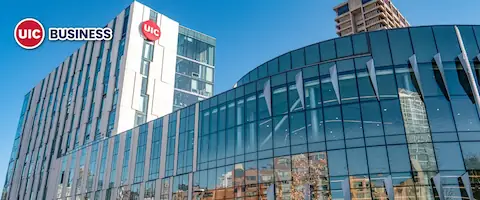
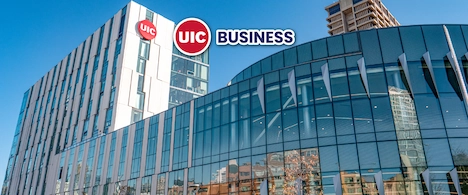
調整圖片及footer格式

diff --git a/src/pages/Msu/Msu_school/AboutMsu.css b/src/pages/Msu/Msu_school/AboutMsu.css
@@ -1,1 +1,1 @@
-.responsive-img{width:100%;-o-object-fit:contain;object-fit:contain;display:block}.about-msu-page h1{font-size:2.5rem;margin-bottom:1rem}.about-msu-page h2{font-size:1.8rem}.about-msu-page .intro{padding:2rem 0;text-align:left;margin-bottom:3rem}.about-msu-page .intro p{font-size:24px;font-weight:700;line-height:40px;color:#252322;letter-spacing:.05em;margin:3rem auto;max-width:100%}.about-msu-page .stats{padding:2rem 0}.about-msu-page .stats .stats-card-school{background:#fff;border:2px solid #a88145;border-radius:20px;padding:3rem;margin-bottom:2rem;position:relative;margin-bottom:6rem}.about-msu-page .stats .stats-card-school h3{font-size:1.8rem;font-weight:900;margin-bottom:1.5rem;color:#211700;text-align:left}.about-msu-page .stats .stats-card-school ul.left-aligned{text-align:left;list-style:none;padding:0;display:grid;grid-template-columns:repeat(3, 1fr);gap:2rem}.about-msu-page .stats .stats-card-school ul.left-aligned li{display:flex;flex-direction:column;align-items:flex-start;margin-bottom:10px}.about-msu-page .stats .stats-card-school ul.left-aligned li .label{font-size:20px;font-weight:400;line-height:26px;color:#000;margin-bottom:.5rem}.about-msu-page .stats .stats-card-school ul.left-aligned li .value{font-size:24px;font-weight:700;line-height:40px;color:#f5bf00}.about-msu-page .stats .stats-card-school ul.left-aligned li .sub-list{font-size:24px;font-weight:700;line-height:40px;font-size:18px;font-weight:400;color:#f5bf00;list-style:disc;margin-top:0;padding-left:20px}.about-msu-page .stats .stats-card-school ul.left-aligned li .sub-list li{margin:0;display:list-item;padding-left:5px}@media screen and (max-width: 700px){.about-msu-page .about-msu-page .stats .stats-card-school ul.left-aligned{grid-template-columns:repeat(2, 1fr)}}.about-msu-page .details{padding:2rem 0}.about-msu-page .details .reasearch{background:#fff;padding:1.5rem;margin-bottom:2rem}.about-msu-page .details .reasearch h3{font-size:1.8rem;font-weight:900;margin-bottom:1.5rem;color:#f5bf00;margin-bottom:1.5rem}.about-msu-page .details .reasearch .research-content{display:flex;flex-direction:column;align-items:flex-start;margin-left:16rem}.about-msu-page .details .reasearch .research-content h4{font-size:20px;font-weight:400;line-height:26px;color:#211700;font-weight:700;margin-bottom:.5rem;text-align:left}.about-msu-page .details .reasearch .research-content .research-funding,.about-msu-page .details .reasearch .research-content .research-facilities,.about-msu-page .details .reasearch .research-content .research-areas,.about-msu-page .details .reasearch .research-content .research-centers{margin-bottom:1.5rem}.about-msu-page .details .reasearch .research-content .funding-amount{font-size:1.8rem;font-weight:900;margin-bottom:1.5rem;color:#7c5f31;font-weight:bold}.about-msu-page .details .reasearch .research-content .funding-year{font-size:16px;font-weight:normal}.about-msu-page .details .reasearch .research-content .facility p{color:#7c5f31;font-weight:700;font-size:20px;margin:1rem 0;max-width:100%}.about-msu-page .details .reasearch .research-content .areas-list{display:flex;flex-direction:row;flex-wrap:wrap;margin-left:1.5rem}.about-msu-page .details .reasearch .research-content .areas-list li{color:#7c5f31;font-weight:700;font-size:24px;position:relative;margin-right:3rem;white-space:nowrap;margin-bottom:1rem}.about-msu-page .details .reasearch .research-content .research-centers p{color:#7c5f31;font-weight:700;font-size:20px;margin:0;max-width:100%}.about-msu-page .michigan-contribution h3,.about-msu-page .global-impact h3{font-size:1.8rem;font-weight:900;margin-bottom:1.5rem;color:#f5bf00;margin-bottom:3rem}.about-msu-page .michigan-contribution p,.about-msu-page .global-impact p{margin:0 auto;margin-left:18rem}.about-msu-page .global-impact h3{margin-top:5rem}.about-msu-page .global-impact .impact-list{padding-left:2rem;text-align:left;color:#7c5f31;font-weight:700;margin-left:17.5rem}.about-msu-page .global-impact .impact-list li{margin-bottom:1rem}.about-msu-page .diversity-list{padding-left:2rem;text-align:left;color:#211700;font-weight:700;margin-left:17.5rem;font-size:14px;margin-top:0}.about-msu-page .diversity-list li{margin-bottom:1rem}@media screen and (max-width: 1024px){.about-msu-page .michigan-contribution p,.about-msu-page .global-impact p{margin-left:8rem}.about-msu-page .details .reasearch .research-content{margin-left:8rem}.about-msu-page .global-impact .impact-list{margin-left:10rem}.about-msu-page .diversity-list{margin-left:10rem}}@media screen and (max-width: 700px){.about-msu-page .details .reasearch .research-content{margin-left:1rem}.about-msu-page .michigan-contribution .contribution-content p{margin-left:2rem}.about-msu-page .global-impact .global-impact-content p{margin-left:2rem}.about-msu-page .global-impact .global-impact-content ul{margin-left:2rem}}@media screen and (max-width: 500px){.about-msu-page .stats .stats-card-school ul.left-aligned li .sub-list{padding-left:0}.about-msu-page .global-impact .impact-list{padding-left:1rem}}/*# sourceMappingURL=AboutMsu.css.map */
+.responsive-img{width:100%;-o-object-fit:contain;object-fit:contain;display:block}.about-msu-page h1{font-size:2.5rem;margin-bottom:1rem}.about-msu-page h2{font-size:1.8rem}.about-msu-page .intro{padding:2rem 2rem;text-align:left;margin-bottom:3rem}.about-msu-page .intro p{font-size:24px;font-weight:700;line-height:40px;color:#252322;letter-spacing:.05em;margin:3rem auto;max-width:100%}.about-msu-page .stats{padding:2rem 0}.about-msu-page .stats .stats-card-school{background:#fff;border:2px solid #a88145;border-radius:20px;padding:3rem;margin-bottom:2rem;position:relative;margin-bottom:6rem}.about-msu-page .stats .stats-card-school h3{font-size:1.8rem;font-weight:900;margin-bottom:1.5rem;color:#211700;text-align:left}.about-msu-page .stats .stats-card-school ul.left-aligned{text-align:left;list-style:none;padding:0;display:grid;grid-template-columns:repeat(3, 1fr);gap:2rem}.about-msu-page .stats .stats-card-school ul.left-aligned li{display:flex;flex-direction:column;align-items:flex-start;margin-bottom:10px}.about-msu-page .stats .stats-card-school ul.left-aligned li .label{font-size:20px;font-weight:400;line-height:26px;color:#000;margin-bottom:.5rem}.about-msu-page .stats .stats-card-school ul.left-aligned li .value{font-size:24px;font-weight:700;line-height:40px;color:#f5bf00}.about-msu-page .stats .stats-card-school ul.left-aligned li .sub-list{font-size:24px;font-weight:700;line-height:40px;font-size:18px;font-weight:400;color:#f5bf00;list-style:disc;margin-top:0;padding-left:20px}.about-msu-page .stats .stats-card-school ul.left-aligned li .sub-list li{margin:0;display:list-item;padding-left:5px}@media screen and (max-width: 700px){.about-msu-page .about-msu-page .stats .stats-card-school ul.left-aligned{grid-template-columns:repeat(2, 1fr)}}.about-msu-page .details{padding:2rem 0}.about-msu-page .details .reasearch{background:#fff;padding:1.5rem;margin-bottom:2rem}.about-msu-page .details .reasearch h3{font-size:1.8rem;font-weight:900;margin-bottom:1.5rem;color:#f5bf00;margin-bottom:1.5rem}.about-msu-page .details .reasearch .research-content{display:flex;flex-direction:column;align-items:flex-start;margin-left:16rem}.about-msu-page .details .reasearch .research-content h4{font-size:20px;font-weight:400;line-height:26px;color:#211700;font-weight:700;margin-bottom:.5rem;text-align:left}.about-msu-page .details .reasearch .research-content .research-funding,.about-msu-page .details .reasearch .research-content .research-facilities,.about-msu-page .details .reasearch .research-content .research-areas,.about-msu-page .details .reasearch .research-content .research-centers{margin-bottom:1.5rem}.about-msu-page .details .reasearch .research-content .funding-amount{font-size:1.8rem;font-weight:900;margin-bottom:1.5rem;color:#7c5f31;font-weight:bold}.about-msu-page .details .reasearch .research-content .funding-year{font-size:16px;font-weight:normal}.about-msu-page .details .reasearch .research-content .facility p{color:#7c5f31;font-weight:700;font-size:20px;margin:1rem 0;max-width:100%}.about-msu-page .details .reasearch .research-content .areas-list{display:flex;flex-direction:row;flex-wrap:wrap;margin-left:1.5rem}.about-msu-page .details .reasearch .research-content .areas-list li{color:#7c5f31;font-weight:700;font-size:24px;position:relative;margin-right:3rem;white-space:nowrap;margin-bottom:1rem}.about-msu-page .details .reasearch .research-content .research-centers p{color:#7c5f31;font-weight:700;font-size:20px;margin:0;max-width:100%}.about-msu-page .michigan-contribution h3,.about-msu-page .global-impact h3{font-size:1.8rem;font-weight:900;margin-bottom:1.5rem;color:#f5bf00;margin-bottom:3rem}.about-msu-page .michigan-contribution p,.about-msu-page .global-impact p{margin:0 auto;margin-left:18rem}.about-msu-page .global-impact h3{margin-top:5rem}.about-msu-page .global-impact .impact-list{padding-left:2rem;text-align:left;color:#7c5f31;font-weight:700;margin-left:17.5rem}.about-msu-page .global-impact .impact-list li{margin-bottom:1rem}.about-msu-page .diversity-list{padding-left:2rem;text-align:left;color:#211700;font-weight:700;margin-left:17.5rem;font-size:14px;margin-top:0}.about-msu-page .diversity-list li{margin-bottom:1rem}@media screen and (max-width: 1024px){.about-msu-page .michigan-contribution p,.about-msu-page .global-impact p{margin-left:8rem}.about-msu-page .details .reasearch .research-content{margin-left:8rem}.about-msu-page .global-impact .impact-list{margin-left:10rem}.about-msu-page .diversity-list{margin-left:10rem}}@media screen and (max-width: 700px){.about-msu-page .details .reasearch .research-content{margin-left:1rem}.about-msu-page .michigan-contribution .contribution-content p{margin-left:2rem}.about-msu-page .global-impact .global-impact-content p{margin-left:2rem}.about-msu-page .global-impact .global-impact-content ul{margin-left:2rem}}@media screen and (max-width: 500px){.about-msu-page .stats .stats-card-school ul.left-aligned li .sub-list{padding-left:0}.about-msu-page .global-impact .impact-list{padding-left:1rem}}/*# sourceMappingURL=AboutMsu.css.map */

diff --git a/src/components/Footer/Footer.css b/src/components/Footer/Footer.css
@@ -1,1 +1,1 @@
-.responsive-img{width:100%;-o-object-fit:contain;object-fit:contain;display:block}.footer{background:#7c5f31;padding:40px 0}.footer .container{width:100%;max-width:1440px;padding:0;margin:0 0 0 8rem}.footer .footer-content{display:flex;justify-content:space-between;align-items:flex-start;margin-bottom:3rem}.footer .footer-content .footer-section{flex:1}.footer .footer-content .footer-section.footer-links-uic,.footer .footer-content .footer-section.footer-links-msu{display:flex;flex-direction:column;text-align:left}.footer .footer-content .footer-section.footer-links-uic .section-title,.footer .footer-content .footer-section.footer-links-msu .section-title{margin-bottom:1rem;color:#fff;font-size:18px;font-weight:bold;width:180px;height:24px;display:flex;align-items:center;margin-left:0;margin-right:0;text-align:left}.footer .footer-content .footer-section.footer-links-uic ul,.footer .footer-content .footer-section.footer-links-msu ul{list-style:none;padding:0;margin:0}.footer .footer-content .footer-section.footer-links-uic ul li,.footer .footer-content .footer-section.footer-links-msu ul li{height:24px;display:flex;align-items:center;margin-bottom:8px}.footer .footer-content .footer-section.footer-links-uic ul li a,.footer .footer-content .footer-section.footer-links-msu ul li a{color:#fff;font-size:16px;text-decoration:none}.footer .footer-content .footer-section.footer-links-uic ul li a:hover,.footer .footer-content .footer-section.footer-links-msu ul li a:hover{text-decoration:none}.footer .footer-content .footer-section.about{display:flex;flex-direction:column;align-items:flex-start;margin-right:-9rem}.footer .footer-content .footer-section.about .contact{margin-bottom:20px}.footer .footer-content .footer-section.about .contact .contact-title{margin-bottom:10px;color:#fff;font-size:18px;font-weight:bold;text-align:left;margin-right:0;margin-left:0}.footer .footer-content .footer-section.about .contact .contact-address,.footer .footer-content .footer-section.about .contact .contact-phone{width:100%;max-width:180px;margin-bottom:5px;color:#fff;font-size:16px;font-style:normal;text-align:left;margin-left:0;margin-right:0}.footer .footer-content .footer-section.about .contact .contact-address{white-space:nowrap}.footer .footer-content .footer-section.about .social-icons{display:flex;gap:15px;align-self:flex-start;margin-top:-1.5rem}.footer .footer-content .footer-section.about .social-icons a img{width:24px;height:24px;-o-object-fit:contain;object-fit:contain}.footer .footer-content .footer-section.brand{display:flex;justify-content:flex-start;align-items:center;margin-left:8rem}.footer .footer-content .footer-section.brand .footer-brand img{max-width:120px;height:auto}.footer .footer-content .footer-section.articles{display:flex;justify-content:flex-start;align-items:center;margin-top:-2px;margin-right:0}.footer .footer-content .footer-section.articles a{color:#fff;font-size:18px;font-weight:bold;text-decoration:none;display:inline-block}.footer .footer-content .footer-section.articles a:hover{text-decoration:none}.footer .footer-bottom{text-align:center;margin-left:25rem;margin-top:5rem}.footer .footer-bottom p{margin:0;color:#fff;font-size:18px}@media screen and (max-width: 1024px){.footer .container{margin-left:0;padding:0 2rem}.footer .footer-content .footer-section.brand{margin-left:0;max-width:150px}.footer .footer-bottom{margin-left:13rem;margin-top:5rem}.footer .footer-content .footer-section.footer-links-uic,.footer .footer-content .footer-section.footer-links-msu,.footer .footer-content .footer-section.articles{max-width:200px}}@media(max-width: 700px){.footer{padding:20px 0}.footer .container{margin:0 auto;padding:0 15px}.footer .footer-content{flex-direction:column;align-items:center;margin-bottom:2rem}.footer .footer-content .footer-section{flex:none;width:100%;margin-bottom:20px;text-align:center}.footer .footer-content .footer-section.footer-links-uic,.footer .footer-content .footer-section.footer-links-msu,.footer .footer-content .footer-section.articles{display:none}.footer .footer-content .footer-section.about{order:1;margin-right:0;align-items:center}.footer .footer-content .footer-section.about .contact{margin-bottom:15px;text-align:center}.footer .footer-content .footer-section.about .contact .contact-title,.footer .footer-content .footer-section.about .contact .contact-address,.footer .footer-content .footer-section.about .contact .contact-phone{text-align:center;margin-left:auto;margin-right:auto;max-width:none}.footer .footer-content .footer-section.about .social-icons{margin-top:.1rem;align-self:center;justify-content:center;width:100%}.footer .footer-content .footer-section.brand{order:2;margin-left:0;justify-content:center;margin-bottom:30px}.footer .footer-bottom{order:3;margin-left:8rem;margin-top:0;text-align:center}}@media screen and (max-width: 500px){.footer .footer-bottom{margin-left:3rem;margin-right:3.5rem}}/*# sourceMappingURL=Footer.css.map */
+.responsive-img{width:100%;-o-object-fit:contain;object-fit:contain;display:block}.footer{background:#7c5f31;padding:40px 0}.footer .container{width:100%;max-width:1440px;padding:0;margin:0 0 0 8rem}.footer .footer-content{display:flex;justify-content:space-between;align-items:flex-start;margin-bottom:3rem}.footer .footer-content .footer-section{flex:1}.footer .footer-content .footer-section.footer-links-uic,.footer .footer-content .footer-section.footer-links-msu{display:flex;flex-direction:column;text-align:left}.footer .footer-content .footer-section.footer-links-uic .section-title,.footer .footer-content .footer-section.footer-links-msu .section-title{margin-bottom:1rem;color:#fff;font-size:18px;font-weight:bold;width:180px;height:24px;display:flex;align-items:center;margin-left:0;margin-right:0;text-align:left}.footer .footer-content .footer-section.footer-links-uic ul,.footer .footer-content .footer-section.footer-links-msu ul{list-style:none;padding:0;margin:0}.footer .footer-content .footer-section.footer-links-uic ul li,.footer .footer-content .footer-section.footer-links-msu ul li{height:24px;display:flex;align-items:center;margin-bottom:8px}.footer .footer-content .footer-section.footer-links-uic ul li a,.footer .footer-content .footer-section.footer-links-msu ul li a{color:#fff;font-size:16px;text-decoration:none}.footer .footer-content .footer-section.footer-links-uic ul li a:hover,.footer .footer-content .footer-section.footer-links-msu ul li a:hover{text-decoration:none}.footer .footer-content .footer-section.about{display:flex;flex-direction:column;align-items:flex-start;margin-right:-9rem}.footer .footer-content .footer-section.about .contact{margin-bottom:20px}.footer .footer-content .footer-section.about .contact .contact-title{margin-bottom:10px;color:#fff;font-size:18px;font-weight:bold;text-align:left;margin-right:0;margin-left:0}.footer .footer-content .footer-section.about .contact .contact-address,.footer .footer-content .footer-section.about .contact .contact-phone{width:100%;max-width:180px;margin-bottom:5px;color:#fff;font-size:16px;font-style:normal;text-align:left;margin-left:0;margin-right:0}.footer .footer-content .footer-section.about .contact .contact-address{white-space:nowrap}.footer .footer-content .footer-section.about .social-icons{display:flex;gap:15px;align-self:flex-start;margin-top:-1.5rem}.footer .footer-content .footer-section.about .social-icons a img{width:24px;height:24px;-o-object-fit:contain;object-fit:contain}.footer .footer-content .footer-section.brand{display:flex;justify-content:flex-start;align-items:center;margin-left:8rem}.footer .footer-content .footer-section.brand .footer-brand img{max-width:120px;height:auto}.footer .footer-content .footer-section.articles{display:flex;justify-content:flex-start;align-items:center;margin-top:-2px;margin-right:0}.footer .footer-content .footer-section.articles a{color:#fff;font-size:18px;font-weight:bold;text-decoration:none;display:inline-block}.footer .footer-content .footer-section.articles a:hover{text-decoration:none}.footer .footer-bottom{text-align:center;margin-left:33rem;margin-top:5rem}.footer .footer-bottom p{margin:0;color:#fff;font-size:18px;text-align:left}@media screen and (max-width: 1024px){.footer .container{margin-left:0;padding:0 2rem}.footer .footer-content .footer-section.brand{margin-left:0;max-width:150px}.footer .footer-bottom{margin-left:13rem;margin-top:5rem}.footer .footer-content .footer-section.footer-links-uic,.footer .footer-content .footer-section.footer-links-msu,.footer .footer-content .footer-section.articles{max-width:200px}}@media(max-width: 700px){.footer{padding:20px 0}.footer .container{margin:0 auto;padding:0 15px}.footer .footer-content{flex-direction:column;align-items:center;margin-bottom:2rem}.footer .footer-content .footer-section{flex:none;width:100%;margin-bottom:20px;text-align:center}.footer .footer-content .footer-section.footer-links-uic,.footer .footer-content .footer-section.footer-links-msu,.footer .footer-content .footer-section.articles{display:none}.footer .footer-content .footer-section.about{order:1;margin-right:0;align-items:center}.footer .footer-content .footer-section.about .contact{margin-bottom:15px;text-align:center}.footer .footer-content .footer-section.about .contact .contact-title,.footer .footer-content .footer-section.about .contact .contact-address,.footer .footer-content .footer-section.about .contact .contact-phone{text-align:center;margin-left:auto;margin-right:auto;max-width:none}.footer .footer-content .footer-section.about .social-icons{margin-top:.1rem;align-self:center;justify-content:center;width:100%}.footer .footer-content .footer-section.brand{order:2;margin-left:0;justify-content:center;margin-bottom:30px}.footer .footer-bottom{order:3;margin-left:8rem;margin-top:0;text-align:center}}@media screen and (max-width: 500px){.footer .footer-content{margin-bottom:0}.footer .footer-bottom{margin-left:6rem;margin-right:3.5rem}}/*# sourceMappingURL=Footer.css.map */

diff --git a/src/pages/Uic/Uic_school/AboutUic.css b/src/pages/Uic/Uic_school/AboutUic.css
@@ -1,1 +1,1 @@
-.responsive-img{width:100%;-o-object-fit:contain;object-fit:contain;display:block}.about-uic-page h1{font-size:2.5rem;margin-bottom:1rem}.about-uic-page h2{font-size:1.8rem}.about-uic-page .intro{padding:2rem 0;text-align:left;margin-bottom:3rem}.about-uic-page .intro p{font-size:24px;font-weight:700;line-height:40px;color:#252322;letter-spacing:.05em;margin-bottom:2rem;margin-right:0;margin-left:0;max-width:1400px}.about-uic-page .stats{padding:2rem 0}.about-uic-page .stats .stats-card-school{background:#fff;border:2px solid #a88145;border-radius:20px;padding:3rem;margin-bottom:2rem;position:relative;margin-bottom:6rem}.about-uic-page .stats .stats-card-school h3{font-size:1.8rem;font-weight:900;margin-bottom:1.5rem;color:#211700;text-align:left}.about-uic-page .stats .stats-card-school ul.left-aligned{text-align:left;list-style:none;padding:0;display:grid;grid-template-columns:repeat(4, 1fr);gap:2rem}.about-uic-page .stats .stats-card-school ul.left-aligned li{display:flex;flex-direction:column;align-items:flex-start;margin-bottom:10px}.about-uic-page .stats .stats-card-school ul.left-aligned li .label{font-size:20px;font-weight:400;line-height:26px;color:#000;margin-bottom:.5rem}.about-uic-page .stats .stats-card-school ul.left-aligned li .value{font-size:24px;font-weight:700;line-height:40px;color:#f5bf00}.about-uic-page .stats .stats-card-ranking{background:#fff;border:2px solid #a88145;border-radius:20px;padding:3rem;margin-bottom:2rem;position:relative}.about-uic-page .stats .stats-card-ranking h3{font-size:1.8rem;font-weight:900;margin-bottom:1.5rem;color:#211700;text-align:left}.about-uic-page .stats .stats-card-ranking .card-header .header-content{display:flex;justify-content:space-between;align-items:center}.about-uic-page .stats .stats-card-ranking ul.left-aligned{text-align:left;list-style:none;padding:0;display:grid;grid-template-columns:repeat(3, 1fr);gap:2rem}.about-uic-page .stats .stats-card-ranking ul.left-aligned li{display:flex;flex-direction:column;align-items:flex-start;margin-bottom:10px}.about-uic-page .stats .stats-card-ranking ul.left-aligned li .label{display:flex;flex-direction:row;align-items:center}.about-uic-page .stats .stats-card-ranking ul.left-aligned li .label .number{font-size:48px;font-weight:400;color:#d94f21;margin-bottom:.5rem;margin-left:3rem}.about-uic-page .stats .stats-card-ranking ul.left-aligned li .label .text{font-size:24px;font-weight:700;color:#d94f21;margin-right:5px}.about-uic-page .stats .stats-card-ranking ul.left-aligned li .value{margin-top:5px;font-size:14px;font-weight:700;line-height:17px}.about-uic-page .business-school{padding:2rem 0}.about-uic-page .business-school h3{font-size:32px;font-weight:900;line-height:39px;margin-bottom:3rem;color:#211700;text-align:center}.about-uic-page .business-school p{font-size:24px;font-weight:700;line-height:40px;color:#211700;margin-bottom:3rem;text-align:left;max-width:1400px}@media screen and (max-width: 700px){.about-uic-page .stats .stats-card-school ul.left-aligned,.about-uic-page .stats .stats-card-ranking ul.left-aligned{display:grid;grid-template-columns:1fr 1fr;gap:12px 24px;padding:0;list-style:none}.about-uic-page .stats .stats-card-school ul.left-aligned li,.about-uic-page .stats .stats-card-ranking ul.left-aligned li{margin:0}}@media screen and (max-width: 400px){.about-uic-page .stats .stats-card-ranking{padding:.5rem}.about-uic-page .stats .stats-card-ranking h3{margin-bottom:0}}/*# sourceMappingURL=AboutUic.css.map */
+.responsive-img{width:100%;-o-object-fit:contain;object-fit:contain;display:block}.about-uic-page h1{font-size:2.5rem;margin-bottom:1rem}.about-uic-page h2{font-size:1.8rem}.about-uic-page .intro{padding:2rem 2rem;text-align:left;margin-bottom:3rem}.about-uic-page .intro p{font-size:24px;font-weight:700;line-height:40px;color:#252322;letter-spacing:.05em;margin-bottom:2rem;margin-right:0;margin-left:0;max-width:1400px}.about-uic-page .stats{padding:2rem 0}.about-uic-page .stats .stats-card-school{background:#fff;border:2px solid #a88145;border-radius:20px;padding:3rem;margin-bottom:2rem;position:relative;margin-bottom:6rem}.about-uic-page .stats .stats-card-school h3{font-size:1.8rem;font-weight:900;margin-bottom:1.5rem;color:#211700;text-align:left}.about-uic-page .stats .stats-card-school ul.left-aligned{text-align:left;list-style:none;padding:0;display:grid;grid-template-columns:repeat(4, 1fr);gap:2rem}.about-uic-page .stats .stats-card-school ul.left-aligned li{display:flex;flex-direction:column;align-items:flex-start;margin-bottom:10px}.about-uic-page .stats .stats-card-school ul.left-aligned li .label{font-size:20px;font-weight:400;line-height:26px;color:#000;margin-bottom:.5rem}.about-uic-page .stats .stats-card-school ul.left-aligned li .value{font-size:24px;font-weight:700;line-height:40px;color:#f5bf00}.about-uic-page .stats .stats-card-ranking{background:#fff;border:2px solid #a88145;border-radius:20px;padding:3rem;margin-bottom:2rem;position:relative}.about-uic-page .stats .stats-card-ranking h3{font-size:1.8rem;font-weight:900;margin-bottom:1.5rem;color:#211700;text-align:left}.about-uic-page .stats .stats-card-ranking .card-header .header-content{display:flex;justify-content:space-between;align-items:center}.about-uic-page .stats .stats-card-ranking ul.left-aligned{text-align:left;list-style:none;padding:0;display:grid;grid-template-columns:repeat(3, 1fr);gap:2rem}.about-uic-page .stats .stats-card-ranking ul.left-aligned li{display:flex;flex-direction:column;align-items:flex-start;margin-bottom:10px}.about-uic-page .stats .stats-card-ranking ul.left-aligned li .label{display:flex;flex-direction:row;align-items:center}.about-uic-page .stats .stats-card-ranking ul.left-aligned li .label .number{font-size:48px;font-weight:400;color:#d94f21;margin-bottom:.5rem;margin-left:3rem}.about-uic-page .stats .stats-card-ranking ul.left-aligned li .label .text{font-size:24px;font-weight:700;color:#d94f21;margin-right:5px}.about-uic-page .stats .stats-card-ranking ul.left-aligned li .value{margin-top:5px;font-size:14px;font-weight:700;line-height:17px}.about-uic-page .business-school{padding:2rem 0}.about-uic-page .business-school h3{font-size:32px;font-weight:900;line-height:39px;margin-bottom:3rem;color:#211700;text-align:center}.about-uic-page .business-school p{font-size:24px;font-weight:700;line-height:40px;color:#211700;margin-bottom:3rem;text-align:left;max-width:1400px}@media screen and (max-width: 700px){.about-uic-page .stats .stats-card-school ul.left-aligned,.about-uic-page .stats .stats-card-ranking ul.left-aligned{display:grid;grid-template-columns:1fr 1fr;gap:12px 24px;padding:0;list-style:none}.about-uic-page .stats .stats-card-school ul.left-aligned li,.about-uic-page .stats .stats-card-ranking ul.left-aligned li{margin:0}}@media screen and (max-width: 400px){.about-uic-page .stats .stats-card-ranking{padding:.5rem}.about-uic-page .stats .stats-card-ranking h3{margin-bottom:0}}/*# sourceMappingURL=AboutUic.css.map */

diff --git a/src/components/ImageTextSection/ImageTextSection.css b/src/components/ImageTextSection/ImageTextSection.css
@@ -1,1 +1,1 @@
-.responsive-img{width:100%;-o-object-fit:contain;object-fit:contain;display:block}.image-text-section{background-color:#ddd}.image-text-section .container{display:flex;align-items:center;max-width:1400px;margin:0 auto;padding-top:2rem;padding-bottom:4rem}.image-text-section .container .text-content{flex:1;margin-left:18rem}.image-text-section .container .text-content h2,.image-text-section .container .text-content h3{font-size:24px;font-weight:700;line-height:40px;font-weight:900;color:#211700;margin-bottom:.5rem}.image-text-section .container .text-content p{font-size:24px;font-weight:700;line-height:40px;font-size:20px;font-weight:900;color:#211700;text-align:center}.image-text-section .container .image-content{flex:.8 1 0;margin-right:20rem}.image-text-section .container img{width:100%;height:auto}@media(max-width: 700px){.image-text-section{height:auto}.image-text-section .container{flex-direction:row;padding-top:1rem}.image-text-section .container .image-content{margin-right:0;margin-bottom:1.5rem;width:90vw;max-width:350px;align-self:center}.image-text-section .container .text-content{margin-left:0;width:90vw;max-width:350px;text-align:center}.image-text-section .container .text-content h2,.image-text-section .container .text-content h3{font-size:1.3rem}.image-text-section .container .text-content p{font-size:1rem}.image-text-section .container img{width:100%;height:auto}}/*# sourceMappingURL=ImageTextSection.css.map */
+.responsive-img{width:100%;-o-object-fit:contain;object-fit:contain;display:block}.image-text-section{background-color:#ddd}.image-text-section .container{display:flex;flex-direction:column-reverse;align-items:center;max-width:1400px;margin:0 auto;padding-top:1rem}.image-text-section .container .text-content{flex:1;margin-left:1rem;margin-top:1rem}.image-text-section .container .text-content h2,.image-text-section .container .text-content h3{font-size:24px;font-weight:700;line-height:40px;font-weight:900;color:#211700;margin-bottom:.5rem}.image-text-section .container .text-content p{font-size:24px;font-weight:700;line-height:40px;font-size:20px;font-weight:900;color:#211700;text-align:center}.image-text-section .container .image-content{flex:.8 1 0}.image-text-section .container img{width:100%;height:auto}@media(max-width: 700px){.image-text-section{height:auto}.image-text-section .container{padding-top:1rem}.image-text-section .container .image-content{margin-right:0;margin-bottom:1.5rem;width:90vw;max-width:350px;align-self:center}.image-text-section .container .text-content{margin-left:0;width:90vw;max-width:350px;text-align:center}.image-text-section .container .text-content h2,.image-text-section .container .text-content h3{font-size:1.3rem}.image-text-section .container .text-content p{font-size:1rem}.image-text-section .container img{width:100%;height:auto}}/*# sourceMappingURL=ImageTextSection.css.map */

diff --git a/src/components/Hero/Hero.css b/src/components/Hero/Hero.css
@@ -1,1 +1,1 @@
-.responsive-img{width:100%;-o-object-fit:contain;object-fit:contain;display:block}.hero{position:relative;padding:2rem 0;display:flex;align-items:center;transition:background-image 1s ease-in-out;width:100%;max-width:85rem;height:30rem;margin:0 auto}.hero .container,.hero-content,.hero-image{position:relative;z-index:1}.hero .container{max-width:1400px;margin:0 auto;padding:0 1rem;overflow-x:visible;display:flex;gap:2rem}.hero-content{display:flex;flex-direction:column}.hero-content h1{font-size:2.5rem;margin-top:1.5rem;line-height:1.2}.hero-content h1 .title-en,.hero-content h1 .title-zh{display:block;gap:.5rem}.hero-content h1 .title-zh{margin-top:.5rem}.hero-content h1 span{color:#252322}.hero-content p{margin-bottom:2rem;opacity:.9;font-size:1.2rem}.hero-content .hero-buttons{display:flex;flex-direction:row;justify-content:center;gap:1rem;margin-top:3rem}.hero-content .hero-buttons .btn.course-btn{margin:0}.hero-image{flex:1;display:flex;justify-content:center;align-items:center}.hero-bg-mask{position:absolute;top:0;left:0;right:0;bottom:0;background:rgba(231,227,227,.404);z-index:0;pointer-events:none}.hero-img{width:100%;height:100%;-o-object-fit:cover;object-fit:cover;position:absolute;top:0;left:0;z-index:0}/*# sourceMappingURL=Hero.css.map */
+.responsive-img{width:100%;-o-object-fit:contain;object-fit:contain;display:block}.hero{position:relative;padding:2rem 0;display:flex;align-items:center;transition:background-image 1s ease-in-out;width:100%;max-width:85rem;height:35rem;margin:0 auto;overflow:hidden}.hero .container,.hero-content,.hero-image{position:relative;z-index:1}.hero .container{max-width:1400px;margin:0 auto;padding:0 1rem;overflow-x:visible;display:flex;gap:2rem}.hero-content{display:flex;flex-direction:column}.hero-content h1{font-size:2.5rem;margin-top:1.5rem;line-height:1.2}.hero-content h1 .title-en,.hero-content h1 .title-zh{display:block;gap:.5rem}.hero-content h1 .title-zh{margin-top:.5rem}.hero-content h1 span{color:#252322}.hero-content p{margin-bottom:2rem;opacity:.9;font-size:1.2rem}.hero-content .hero-buttons{display:flex;flex-direction:row;justify-content:center;gap:1rem;margin-top:3rem}.hero-content .hero-buttons .btn.course-btn{margin:0}.hero-image{flex:1;display:flex;justify-content:center;align-items:center}.hero-bg-mask{position:absolute;top:0;left:0;right:0;bottom:0;background:rgba(231,227,227,.404);z-index:0;pointer-events:none}.hero-img{width:100%;height:100%;max-width:none;min-width:0;min-height:0;-o-object-fit:cover;object-fit:cover;position:absolute;top:0;left:0;z-index:0;display:block}@media screen and (max-width: 1024px){.hero{height:400px}.hero-img{width:100%;height:100%}}@media screen and (max-width: 850px){.hero{height:350px}.hero-img{width:100%;height:100%}}@media screen and (max-width: 500px){.hero{height:500px}.hero-img{width:100%;height:100%}}/*# sourceMappingURL=Hero.css.map */

diff --git a/src/components/ImageTextSection/ImageTextSection.scss b/src/components/ImageTextSection/ImageTextSection.scss
@@ -6,15 +6,16 @@
 
   .container {
     display: flex;
+    flex-direction: column-reverse; // 垂直排列
     align-items: center; // 垂直居中對齊
     max-width: $container-max-width; // 使用變數設定最大寬度
     margin: 0 auto; // 水平居中
-    padding-top: 2rem; /* 增加此行，調整數值以符合需求 */
-    padding-bottom: 4rem;
+    padding-top: 1rem; /* 增加此行，調整數值以符合需求 */
 
     .text-content {
       flex: 1; // 移除 position 和 left，改用 flex-basis 或 flex-grow 控制寬度
-      margin-left: 18rem;
+      margin-left: 1rem;
+      margin-top: 1rem;
       h2,
       h3 {
         @include value-style; // 使用 mixin 定義的標題樣式
@@ -34,7 +35,6 @@
 
     .image-content {
       flex: 0.8 1 0; // 移除 position 和 right，改用 flex-basis 或 flex-grow 控制寬度
-      margin-right: 20rem;
     }
     img {
       width: 100%; // 確保圖片不超過容器寬度
@@ -47,7 +47,6 @@
   .image-text-section {
     height: auto; // 取消固定高度
     .container {
-      flex-direction: row; // 垂直排列
       padding-top: 1rem; // 調整上方間距
       .image-content {
         margin-right: 0;

diff --git a/src/components/Hero/Hero.scss b/src/components/Hero/Hero.scss
@@ -10,8 +10,9 @@
   transition: background-image 1s ease-in-out;
   width: 100%;
   max-width: 85rem;
-  height: 30rem;
+  height: 35rem;
   margin: 0 auto;
+  overflow: hidden; // 新增，避免圖片外溢
   .container,
   &-content,
   &-image {
@@ -88,9 +89,42 @@
 .hero-img {
   width: 100%;
   height: 100%;
+  max-width: none;
+  min-width: 0;
+  min-height: 0;
   object-fit: cover;
   position: absolute;
   top: 0;
   left: 0;
   z-index: 0;
+  display: block;
+}
+@media screen and (max-width: 1024px) {
+  .hero {
+    height: 400px;
+  }
+  .hero-img {
+    width: 100%;
+    height: 100%;
+  }
+}
+
+@media screen and (max-width: 850px) {
+  .hero {
+    height: 350px;
+  }
+  .hero-img {
+    width: 100%;
+    height: 100%;
+  }
+}
+
+@media screen and (max-width: 500px) {
+  .hero {
+    height: 500px;
+  }
+  .hero-img {
+    width: 100%;
+    height: 100%;
+  }
 }

diff --git a/src/components/Footer/Footer.scss b/src/components/Footer/Footer.scss
@@ -161,13 +161,14 @@
   /* 頁腳底部區域樣式 */
   .footer-bottom {
     text-align: center;
-    margin-left: 25rem;
+    margin-left: 33rem;
     margin-top: $spacing-xxl;
 
     p {
       margin: 0;
       color: $color-white;
       font-size: 18px;
+      text-align: left;
     }
   }
 }
@@ -269,8 +270,11 @@
   }
 }
 @media screen and (max-width: 500px) {
+  .footer .footer-content {
+    margin-bottom: 0;
+  }
   .footer .footer-bottom {
-    margin-left: 3rem;
+    margin-left: 6rem;
     margin-right: 3.5rem;
   }
 }

diff --git a/src/pages/Msu/Msu_school/AboutMsu.js b/src/pages/Msu/Msu_school/AboutMsu.js
@@ -7,8 +7,7 @@ function AboutMsu() {
     <div className="about-msu-page">
       <ImageTextSection
         title="MSU 密西根州立大學"
-        subtitle="Michigan State University"
-        imageUrl="https://imgur.com/JD3FIrt.png"
+        imageUrl={`${process.env.PUBLIC_URL}/images/Msu/Michigan State University_01.webp`}
         imageAlt="Michigan State University"
       />
       <section className="intro" aria-label="學校介紹">

diff --git a/src/components/Hero/Hero.js b/src/components/Hero/Hero.js
@@ -59,7 +59,7 @@ function Hero() {
       <img
         className="hero-img"
         srcSet={heroImages[heroIndex].srcSet}
-        sizes="(max-width: 600px) 480px, (max-width: 900px) 768px, 1280px"
+        sizes="(max-width: 600px) 480px, (max-width: 1024px) 768px, 1280px"
         src={heroImages[heroIndex].src}
         alt={heroImages[heroIndex].alt}
         width="1280"

diff --git a/src/pages/Uic/Uic_school/AboutUic.js b/src/pages/Uic/Uic_school/AboutUic.js
@@ -29,7 +29,7 @@ function AboutUic() {
       <ImageTextSection
         title="伊利諾大學芝加哥分校"
         subtitle="UIC 美國商學院"
-        imageUrl="https://imgur.com/JD3FIrt.png"
+        imageUrl={`${process.env.PUBLIC_URL}/images/UIC/UIC 新款logo (RGB-04)-01.webp`}
         imageAlt="UIC 美國商學院"
       />
 

diff --git a/src/pages/Msu/Msu_school/AboutMsu.scss b/src/pages/Msu/Msu_school/AboutMsu.scss
@@ -12,7 +12,7 @@
   }
 
   .intro {
-    padding: $spacing-lg 0;
+    padding: $spacing-lg $spacing-lg;
     text-align: left; // 改為左對齊
     margin-bottom: 3rem; // 增加與下方區塊的間距
 
